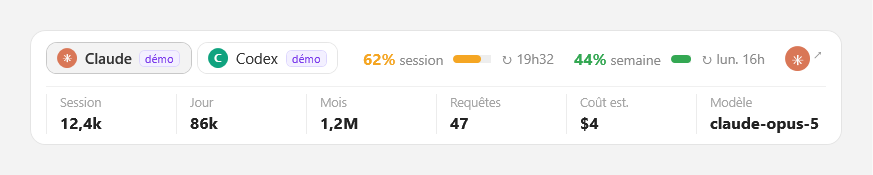
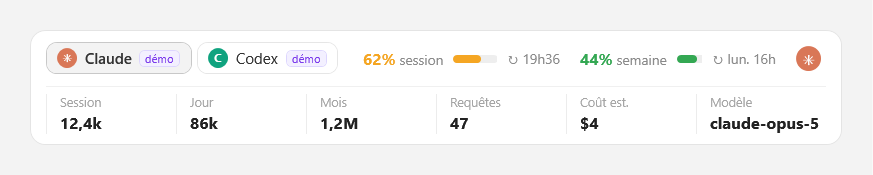
fix: retrait du chevron a cote de la pastille du lien
La pastille du fournisseur seule. L'affordance tient au curseur main, au fond
au survol et a l'infobulle qui nomme l'URL.

Claude-Session: https://claude.ai/code/session_01YT6Qea6YbvyeEBfMhfv4xK

Changed region(s): [[0.5567, 0.2571, 0.9588, 0.4286]]

diff --git a/Views/UsagePanel.xaml b/Views/UsagePanel.xaml
@@ -244,21 +244,16 @@
                             </ControlTemplate.Triggers>
                         </ControlTemplate>
                     </Button.Template>
-                    <!-- Pastille du fournisseur + ↗ : sans le chevron, cette pastille duplique
-                         celle de gauche et rien ne dit qu'elle ouvre quelque chose. -->
-                    <StackPanel Orientation="Horizontal">
-                        <Border Width="20" Height="20" CornerRadius="10"
-                                Background="{Binding SoloAccent, Converter={StaticResource StringToBrushConverter}}"
-                                SnapsToDevicePixels="True" UseLayoutRounding="True">
-                            <TextBlock Text="{Binding SoloGlyph}" Foreground="White"
-                                       FontFamily="Segoe UI Symbol, Segoe UI Emoji, Segoe UI"
-                                       FontSize="11" FontWeight="Bold"
-                                       HorizontalAlignment="Center" VerticalAlignment="Center"/>
-                        </Border>
-                        <TextBlock Text="↗" FontSize="10" Foreground="#9A9A9A"
-                                   FontFamily="Segoe UI Symbol, Segoe UI"
-                                   Margin="2,0,0,0" VerticalAlignment="Top"/>
-                    </StackPanel>
+                    <!-- La pastille seule. L'affordance repose sur le curseur main, le fond au
+                         survol et l'infobulle qui nomme l'URL. -->
+                    <Border Width="20" Height="20" CornerRadius="10"
+                            Background="{Binding SoloAccent, Converter={StaticResource StringToBrushConverter}}"
+                            SnapsToDevicePixels="True" UseLayoutRounding="True">
+                        <TextBlock Text="{Binding SoloGlyph}" Foreground="White"
+                                   FontFamily="Segoe UI Symbol, Segoe UI Emoji, Segoe UI"
+                                   FontSize="11" FontWeight="Bold"
+                                   HorizontalAlignment="Center" VerticalAlignment="Center"/>
+                    </Border>
                 </Button>
             </Grid>
 

diff --git a/CLAUDE.md b/CLAUDE.md
@@ -281,7 +281,7 @@ Rétrocompatible JSON : `SearchMode` absent → `ByProcessName` par défaut
 Bandeau sous la grille (`Views/UsagePanel.xaml`), 4ᵉ ligne de `QuickAccessWindow` : toolbar / grille / **bandeau** / pagination. Masqué, il est en `Collapsed` et ne prend aucune place.
 
 - **Contenu** : un onglet par fournisseur (pastille colorée + nom + badge « démo »), les deux jauges *session* et *semaine* sur une seule ligne chacune (pourcentage **consommé** en gras dans la couleur de la jauge, barre de 6 px, `↻ heure de reset`), puis six colonnes de métriques — Session, Jour, Mois, Requêtes, Coût est., Modèle. Coût décoché → cinq colonnes
-- **Lien vers la page officielle du fournisseur** à droite de la ligne haute : sa pastille suivie d'un ↗. Sans le chevron, cette pastille duplique celle de gauche et rien ne dit qu'elle ouvre quelque chose. L'URL est portée par `AiUsage.UsageUrl`, décidée dans le code du fournisseur et jamais lue depuis un fichier ; le schéma est tout de même vérifié avant `Process.Start` — avec `UseShellExecute`, une chaîne quelconque ouvrirait aussi bien un fichier ou une commande. Vide → le lien est masqué (cas du provider Démo dans l'application)
+- **Lien vers la page officielle du fournisseur** à droite de la ligne haute : sa pastille, cliquable. L'affordance repose sur le curseur main, le fond au survol et l'infobulle qui nomme l'URL — la pastille est identique à celle de gauche, rien d'autre ne la distingue. L'URL est portée par `AiUsage.UsageUrl`, décidée dans le code du fournisseur et jamais lue depuis un fichier ; le schéma est tout de même vérifié avant `Process.Start` — avec `UseShellExecute`, une chaîne quelconque ouvrirait aussi bien un fichier ou une commande. Vide → le lien est masqué (cas du provider Démo dans l'application)
 - **Libellés courts (« session », « semaine ») et infobulle explicite** : le libellé seul ne dit pas si le chiffre est le consommé ou le restant, l'infobulle donne les deux. Le mot « utilisée » dans le libellé coûtait la largeur des barres
 - **Un seul fournisseur visible → aucun onglet** : nom et pastille en libellé statique. Un onglet unique et cliquable suggère un choix qui n'existe pas. Le seuil est le nombre de fournisseurs visibles, pas une constante
 - **La barre suit le restant, pas le consommé** : elle doit s'accorder avec le nombre affiché juste au-dessus. Une barre remplie à 62 % sous un « 38 % » se lit comme un défaut (vu à la capture). Jauge de carburant : elle se vide quand on consomme
